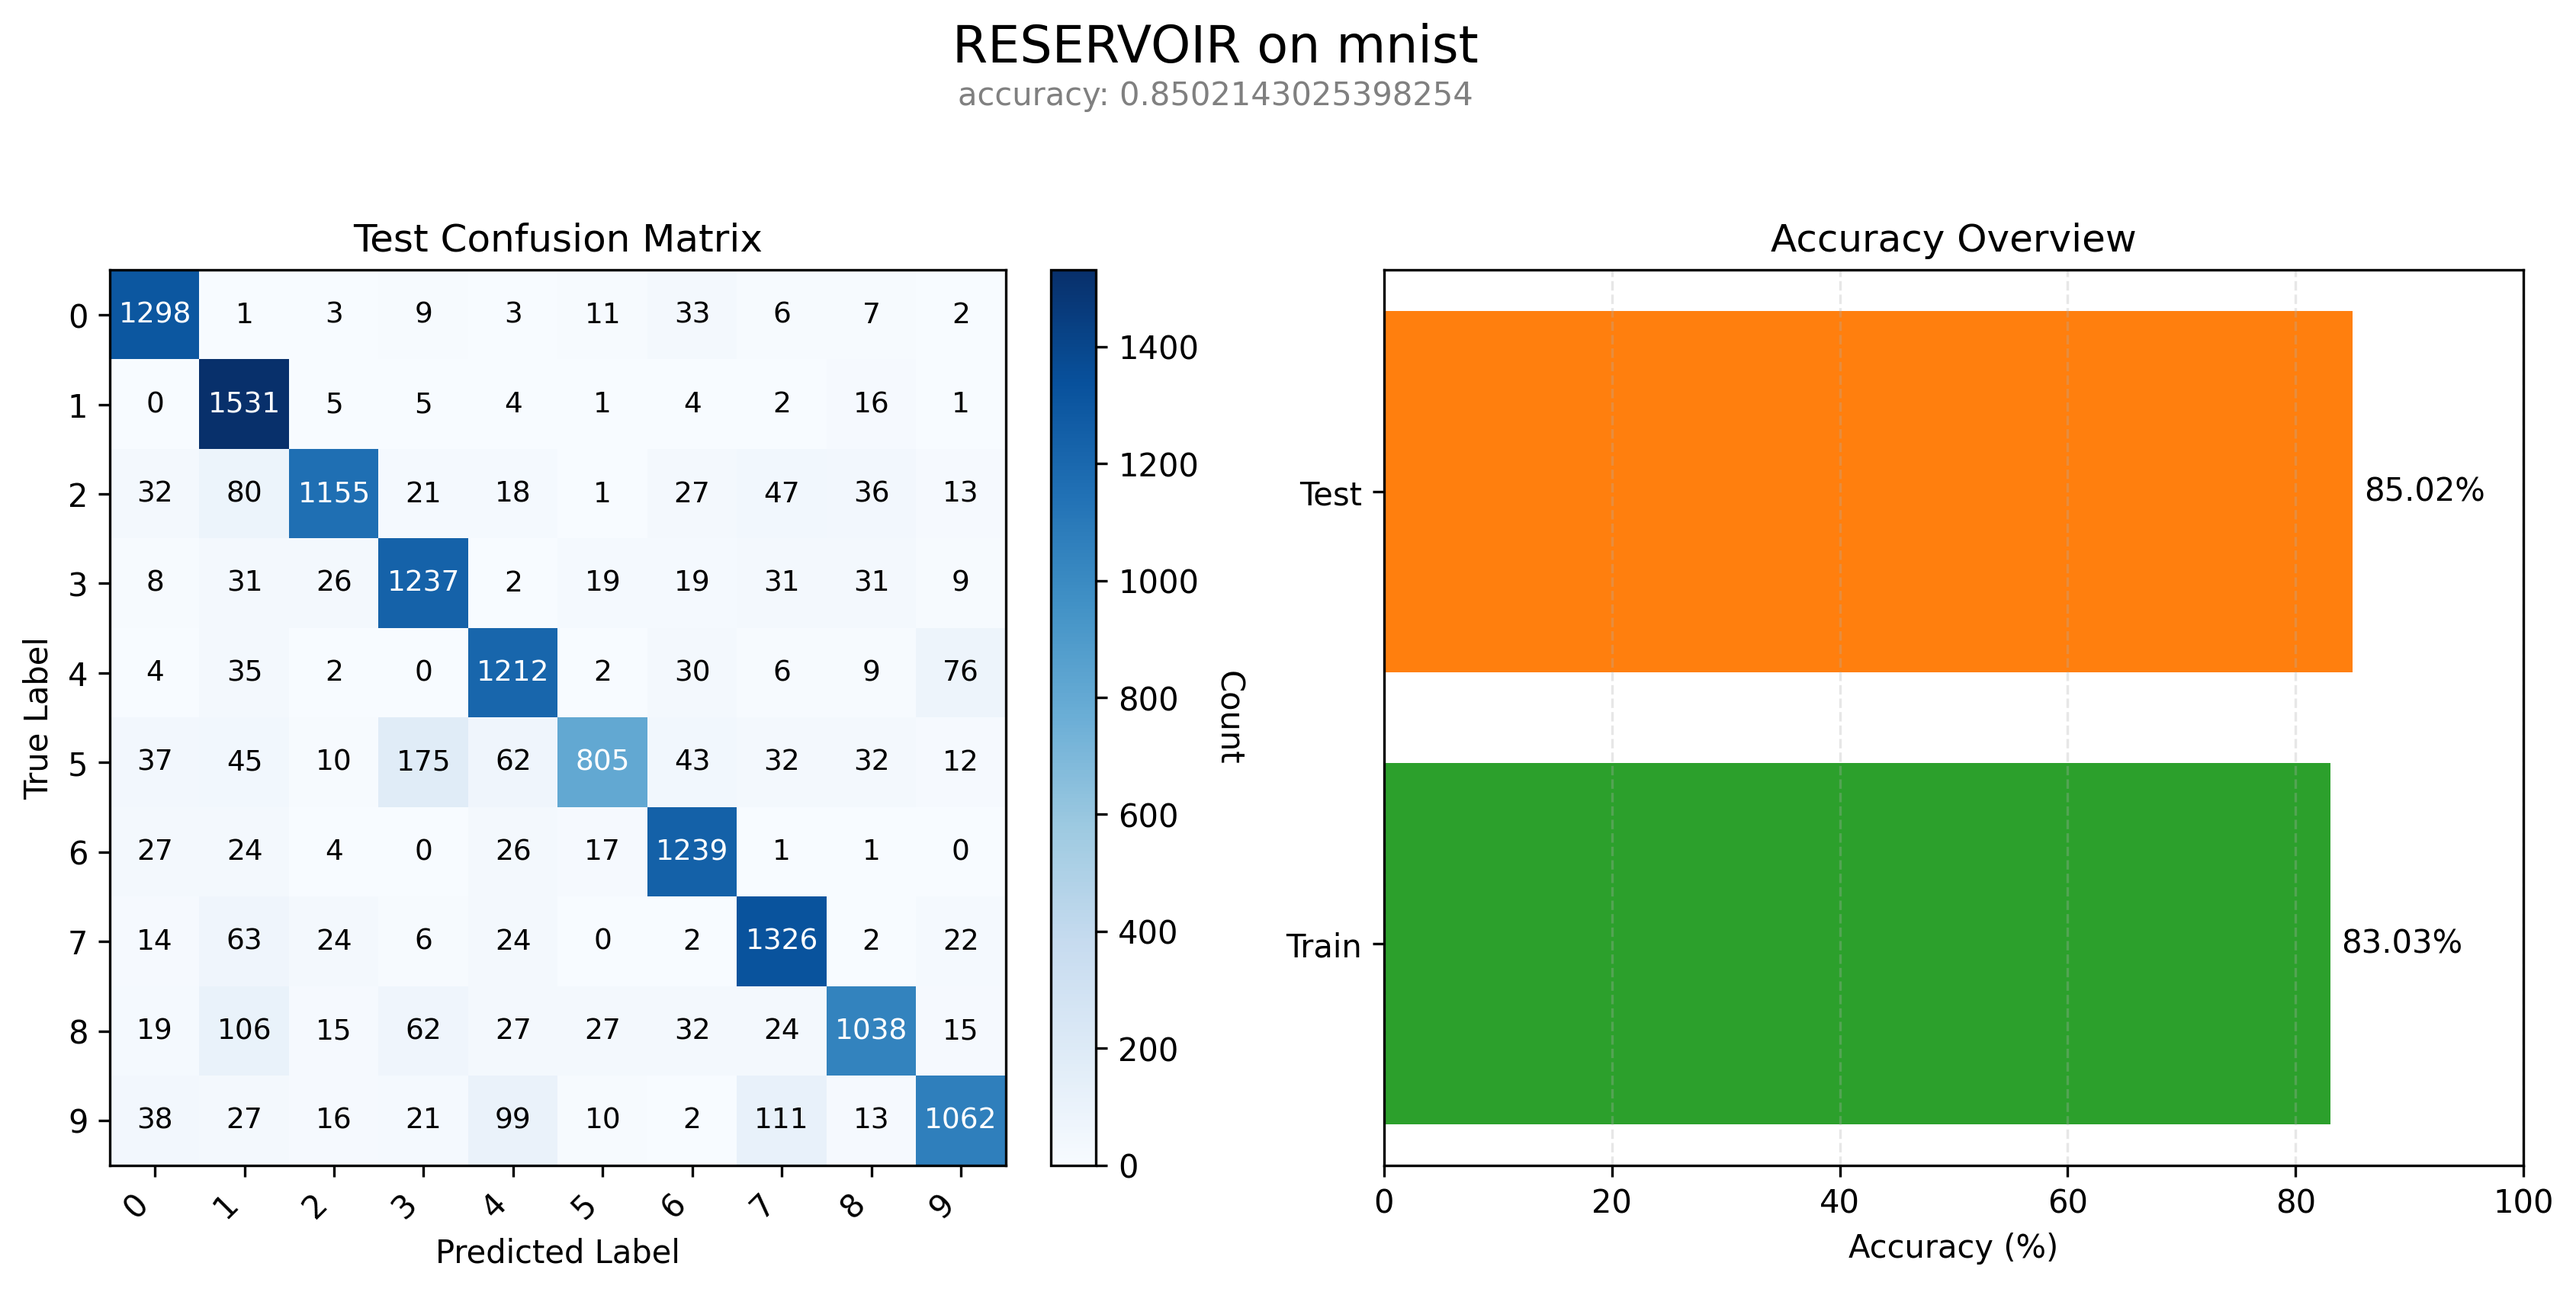
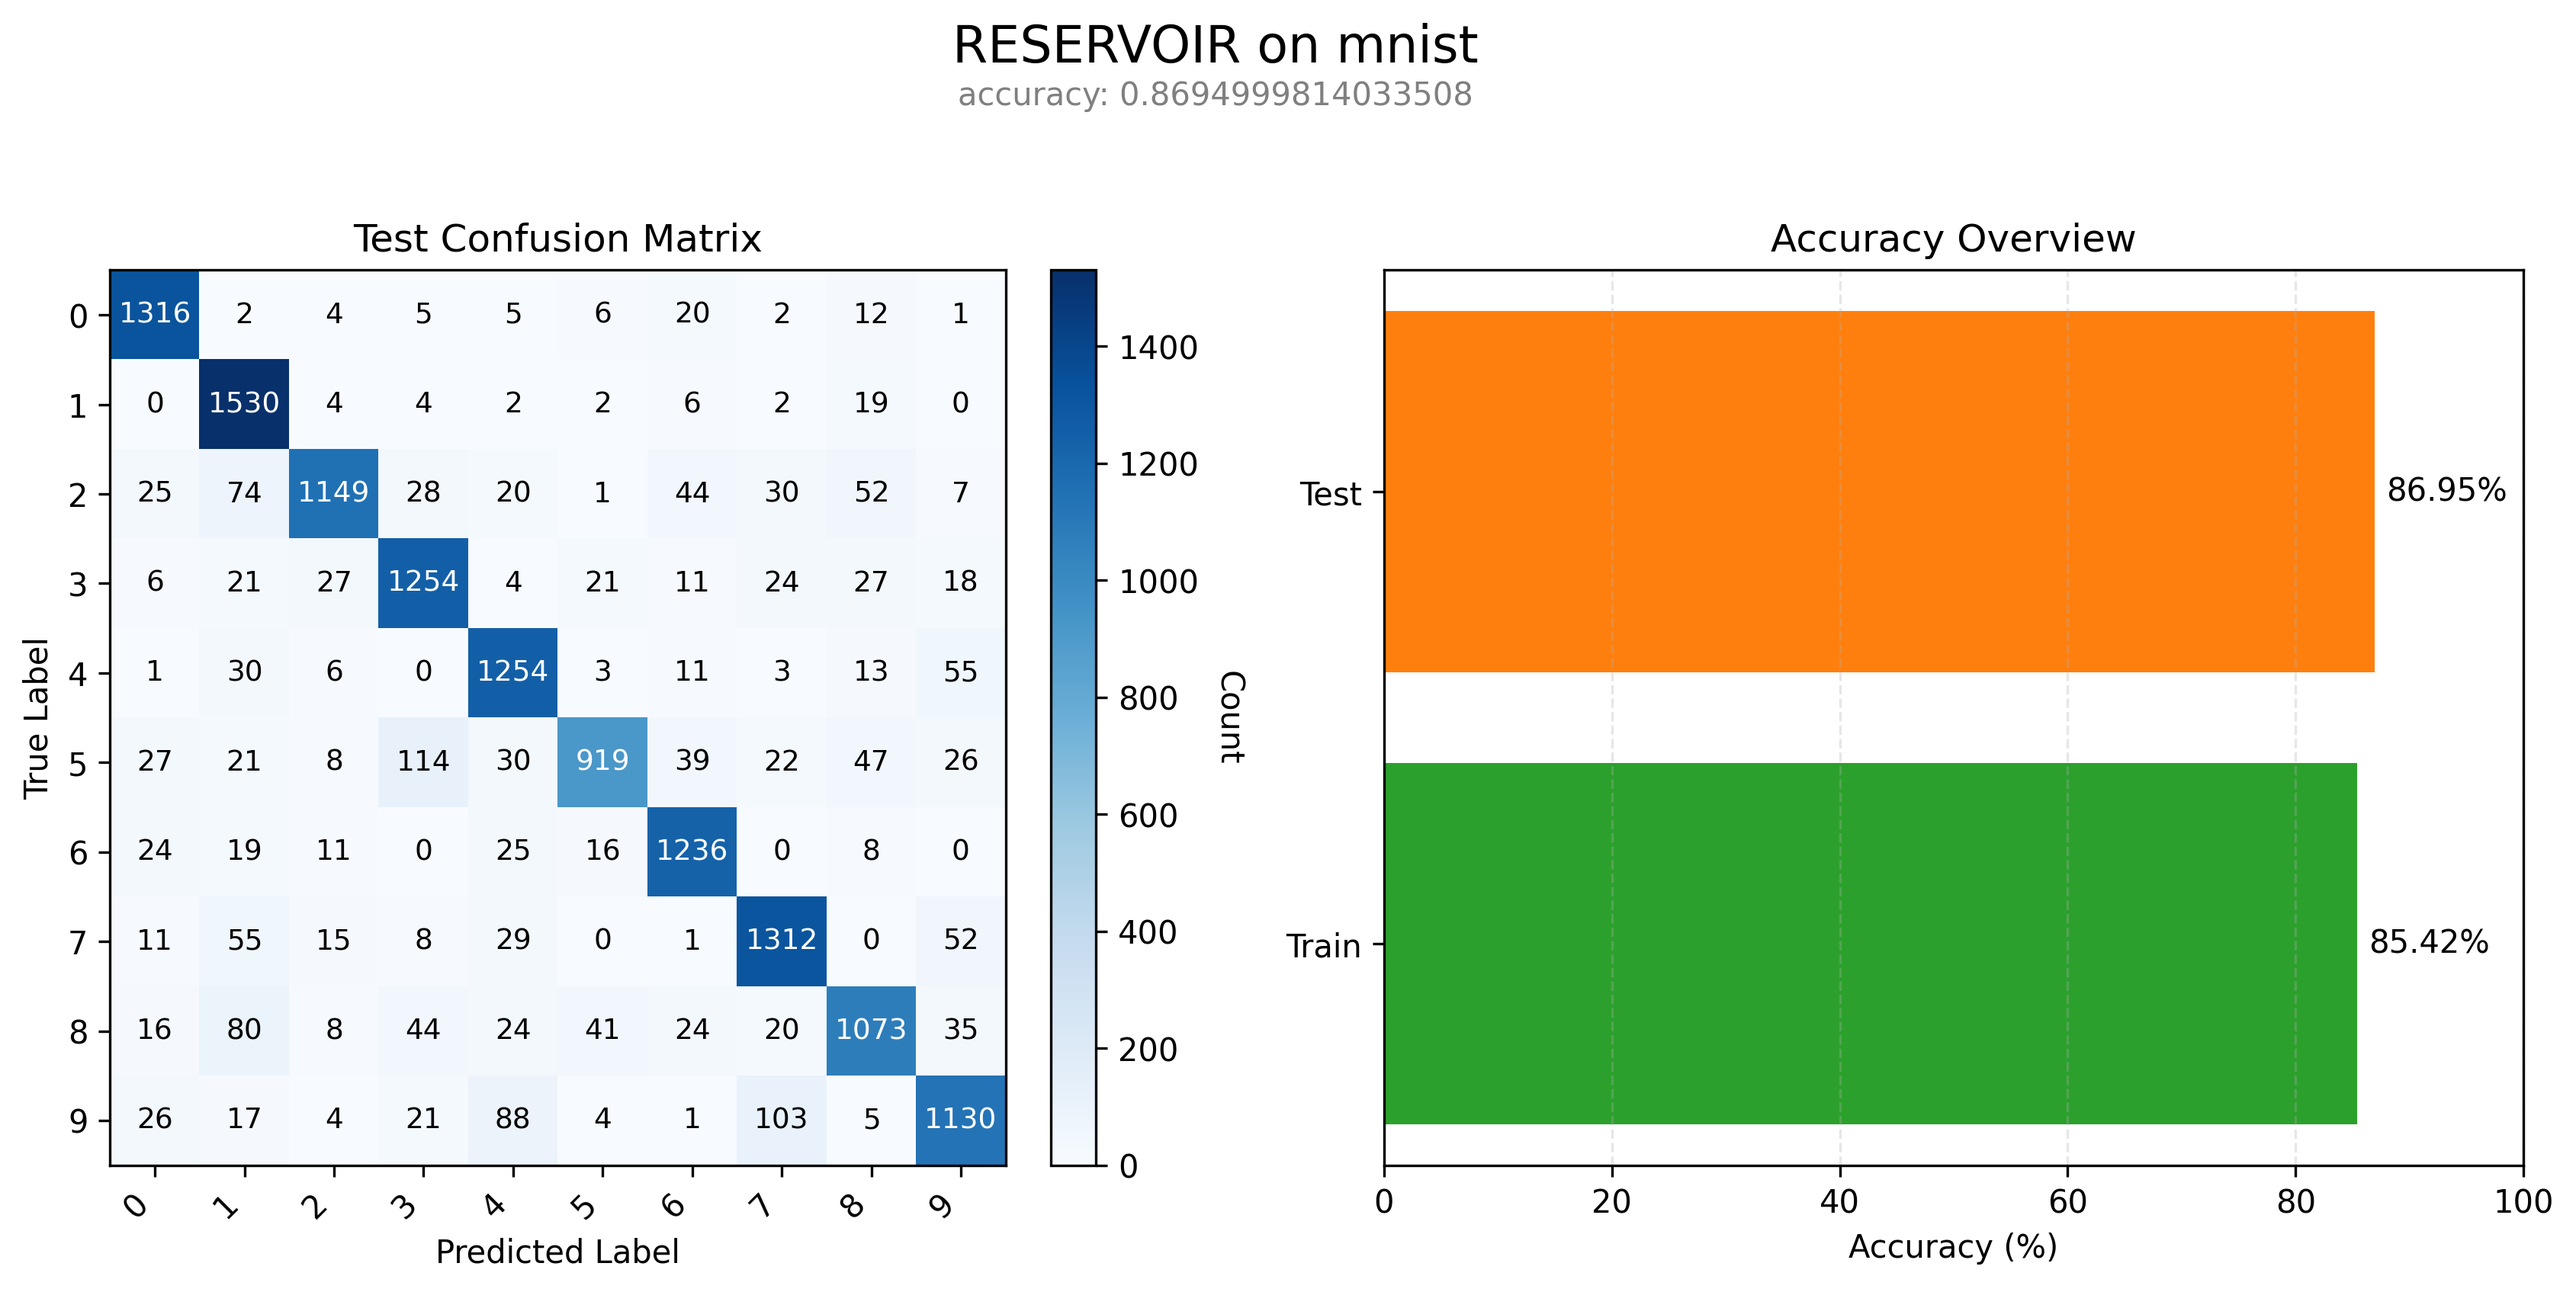
ridge search

diff --git a/src/reservoir/models/orchestrator.py b/src/reservoir/models/orchestrator.py
@@ -5,12 +5,13 @@ High-level orchestration of preprocessing, reservoir dynamics, and readout.
 from __future__ import annotations
 
 from dataclasses import dataclass
-from typing import Optional, Dict, Any
+from typing import Optional, Dict, Any, List
 
 import chex
 import jax.numpy as jnp
 
 from reservoir.core.interfaces import ReservoirNode, ReadoutModule, Transformer
+from reservoir.components.readout.ridge import RidgeRegression
 
 
 @dataclass
@@ -106,6 +107,87 @@ class ReservoirModel:
             true_labels = targets if targets.ndim == 1 else jnp.argmax(targets, axis=-1)
             return float(jnp.mean(pred_labels == true_labels))
         return 0.0
+
+    def train(
+        self,
+        inputs: chex.Array,
+        targets: chex.Array,
+        *,
+        validation: Optional[tuple[chex.Array, chex.Array]] = None,
+        ridge_lambdas: Optional[List[float]] = None,
+        metric: str = "mse",
+        init_state: Optional[chex.Array] = None,
+        **kwargs: Any,
+    ) -> Dict[str, Any]:
+        """Fit the readout, optionally searching over ridge lambdas using a validation split."""
+        # kwargs (e.g., name, batch_size) are ignored for closed-form Ridge.
+        prepared = self._prepare_inputs(inputs, fit=True)
+        states = self._run_reservoir(prepared, init_state)
+        features = self._get_features(states, jnp.asarray(targets))
+
+        val_features = None
+        val_targets = None
+        if validation is not None:
+            val_X, val_y = validation
+            val_prepared = self._prepare_inputs(val_X, fit=False)
+            val_states = self._run_reservoir(val_prepared, init_state)
+            val_features = self._get_features(val_states, jnp.asarray(val_y))
+            val_targets = jnp.asarray(val_y)
+
+        lambdas = ridge_lambdas or [self.readout.alpha if hasattr(self.readout, "alpha") else 1.0]
+        best_lambda = None
+        best_score: Optional[float] = None
+        best_readout: Optional[RidgeRegression] = None
+        search_log: Dict[float, float] = {}
+
+        for lam in lambdas:
+            candidate = RidgeRegression(alpha=float(lam), use_intercept=getattr(self.readout, "use_intercept", True))
+            candidate.fit(features, targets)
+
+            if val_features is not None and val_targets is not None:
+                preds = candidate.predict(val_features)
+                if metric == "accuracy":
+                    pred_labels = jnp.argmax(preds, axis=-1)
+                    true_labels = val_targets if val_targets.ndim == 1 else jnp.argmax(val_targets, axis=-1)
+                    score_val = float(jnp.mean(pred_labels == true_labels))
+                else:
+                    score_val = float(jnp.mean((preds - val_targets) ** 2))
+            else:
+                preds = candidate.predict(features)
+                if metric == "accuracy":
+                    pred_labels = jnp.argmax(preds, axis=-1)
+                    true_labels = targets if targets.ndim == 1 else jnp.argmax(targets, axis=-1)
+                    score_val = float(jnp.mean(pred_labels == true_labels))
+                else:
+                    score_val = float(jnp.mean((preds - targets) ** 2))
+
+            search_log[float(lam)] = score_val
+
+            if best_score is None:
+                best_score = score_val
+                best_lambda = float(lam)
+                best_readout = candidate
+            else:
+                if metric == "accuracy":
+                    if score_val > best_score:
+                        best_score = score_val
+                        best_lambda = float(lam)
+                        best_readout = candidate
+                else:
+                    if score_val < best_score:
+                        best_score = score_val
+                        best_lambda = float(lam)
+                        best_readout = candidate
+
+        if best_readout is not None:
+            self.readout = best_readout
+
+        return {
+            "best_lambda": best_lambda,
+            "validation_score": best_score,
+            "search_history": search_log,
+            "metric": metric,
+        }
 
     def to_dict(self) -> Dict[str, Any]:
         data = {

diff --git a/pipelines/run.py b/pipelines/run.py
@@ -190,6 +190,9 @@ def run_pipeline(
 
     meta_n_outputs = int(dataset_preset.config.n_output)
 
+    # Resolve training configuration (needed for ridge search/validation)
+    training_cfg = _resolve_training_config(config, is_classification)
+
     # Shape Adjustment Logic
     model_type = config.get("model_type")
     if not model_type:
@@ -218,7 +221,6 @@ def run_pipeline(
 
     if model_type in ["fnn", "rnn", "lstm", "gru"]:
         model_cfg = dict(config.get("model", {}))
-        training_cfg = _resolve_training_config(config, is_classification)
 
         # Enforce explicit dimensions or fail
         if model_type == "fnn":
@@ -259,9 +261,9 @@ def run_pipeline(
 
         # Design Matrix
         use_dm = bool(reservoir_params.get("use_design_matrix", False))
+        degree = reservoir_params.get("poly_degree")
+        include_bias = reservoir_params.get("poly_bias", False)
         if use_dm:
-            degree = reservoir_params.get("poly_degree")
-            include_bias = reservoir_params.get("poly_bias", False)
 
             if degree is None:
                 raise ValueError("Configuration Error: 'poly_degree' is required when 'use_design_matrix' is True.")
@@ -325,10 +327,49 @@ def run_pipeline(
     else:
         raise ValueError(f"Unsupported model_type: {model_type}")
 
+    # --- 3a. Validation Split for ridge search ---
+    val_tuple = None
+    val_size = float(training_cfg.get("val_size", 0.0)) if training_cfg else 0.0
+    if val_size > 0.0 and len(train_X) > 1:
+        val_count = max(1, int(len(train_X) * val_size))
+        train_count = len(train_X) - val_count
+        if train_count < 1:
+            train_count = len(train_X) - 1
+            val_count = 1
+        val_X = train_X[train_count:]
+        val_y = train_y[train_count:]
+        train_X = train_X[:train_count]
+        train_y = train_y[:train_count]
+        val_tuple = (val_X, val_y)
+
     # --- 3. Execution ---
     metric = "accuracy" if is_classification else "mse"
     runner = UniversalPipeline(model, config.get("save_path"), metric=metric)
-    results = runner.run(train_X, train_y, test_X, test_y)
+    results = runner.run(
+        train_X,
+        train_y,
+        test_X,
+        test_y,
+        validation=val_tuple,
+        training_cfg=training_cfg,
+    )
+
+    # Log ridge search results if available
+    train_res = results.get("train", {}) if isinstance(results, dict) else {}
+    if isinstance(train_res, dict) and "search_history" in train_res:
+        history = train_res.get("search_history", {})
+        best_lam = train_res.get("best_lambda")
+        metric_name = train_res.get("metric", "score")
+
+        print("\n" + "=" * 40)
+        print(f"🔎 Ridge Hyperparameter Search ({metric_name})")
+        print("-" * 40)
+        sorted_lambdas = sorted(history.keys())
+        for lam in sorted_lambdas:
+            score = history[lam]
+            marker = " 🏆 Best" if (best_lam is not None and jnp.isclose(lam, best_lam)) else ""
+            print(f"   λ = {float(lam):.2e} : Val Score = {float(score):.4f}{marker}")
+        print("=" * 40 + "\n")
 
     # --- 4. Persistence ---
     if save_path and hasattr(model, 'save'):

diff --git a/pipelines/generic_runner.py b/pipelines/generic_runner.py
@@ -27,9 +27,17 @@ class UniversalPipeline:
     def _has_attr(self, name: str) -> bool:
         return hasattr(self.model, name)
 
-    def _train(self, X: jnp.ndarray, y: jnp.ndarray) -> Dict[str, float]:
+    def _train(
+        self,
+        X: jnp.ndarray,
+        y: jnp.ndarray,
+        *,
+        validation: Optional[tuple[Any, Any]] = None,
+        metric: str = "mse",
+        **kwargs: Any,
+    ) -> Dict[str, float]:
         if self._has_attr("train"):
-            return self.model.train(X, y) or {}
+            return self.model.train(X, y, validation=validation, metric=metric, **kwargs) or {}
         if self._has_attr("fit"):
             self.model.fit(X, y)
             return {}
@@ -55,6 +63,7 @@ class UniversalPipeline:
         test_y: Any,
         *,
         validation: Optional[tuple[Any, Any]] = None,
+        training_cfg: Optional[Dict[str, Any]] = None,
     ) -> Dict[str, Dict[str, float]]:
         train_X = jnp.asarray(train_X)
         train_y = jnp.asarray(train_y)
@@ -62,7 +71,8 @@ class UniversalPipeline:
         test_y = jnp.asarray(test_y)
 
         start = time.time()
-        train_metrics = self._train(train_X, train_y)
+        extra_kwargs = training_cfg or {}
+        train_metrics = self._train(train_X, train_y, validation=validation, metric=self.metric_name, **extra_kwargs)
         if not train_metrics:
             train_metrics = {self.metric_name: self._metric_score(train_X, train_y)}
         test_metrics = {self.metric_name: self._metric_score(test_X, test_y)}

diff --git a/src/reservoir/training/presets.py b/src/reservoir/training/presets.py
@@ -31,7 +31,7 @@ class TrainingConfig:
     # Replaces 'ridge_alpha'. Defines the search space for validation.
     # Default is a log-spaced range around typical values.
     ridge_lambdas: List[float] = field(
-        default_factory=lambda: [1e-5, 1e-4, 1e-3, 1e-2, 1e-1, 1.0, 10.0]
+        default_factory=lambda: [1e-7, 1e-6, 1e-5, 1e-4, 1e-3, 1e-2, 1e-1, 1e0, 1e1, 1e2, 1e3, 1e4, 1e5, 1e6, 1e7]
     )
 
     # Data Splitting
